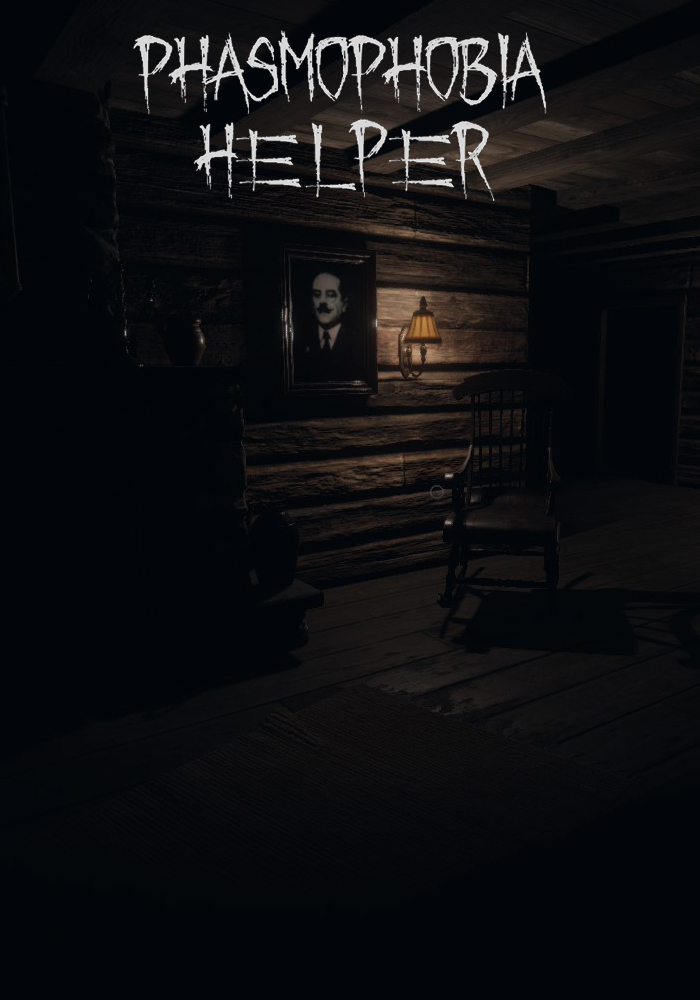
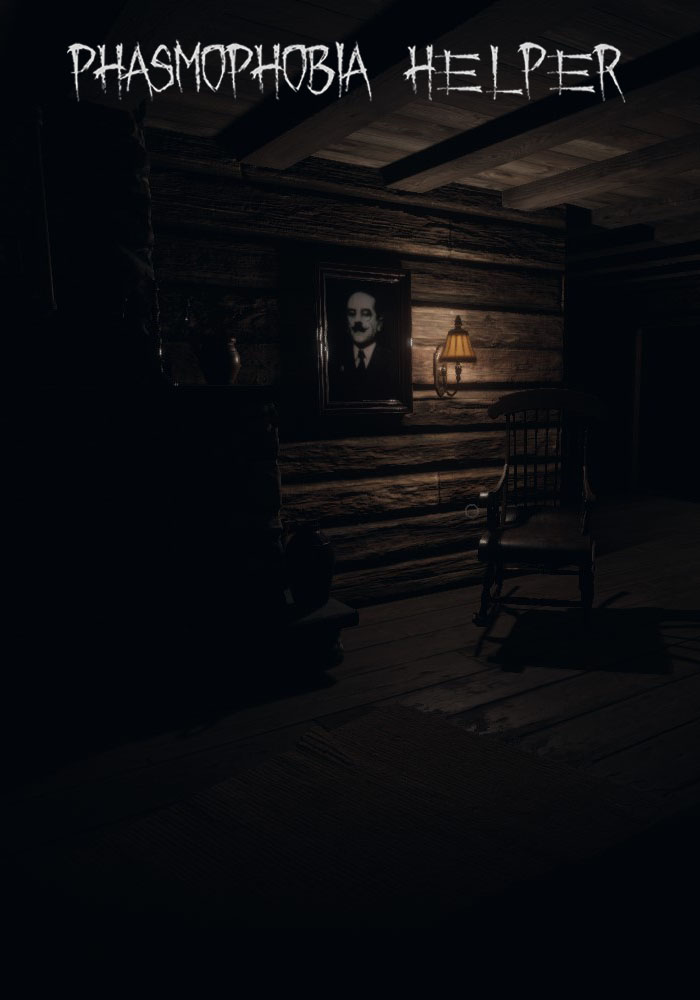
Finish visual updates

diff --git a/css/styles.css b/css/styles.css
@@ -26,6 +26,7 @@ legend {
 fieldset {
     display: inline-block;
     width: 200px;
+    margin-bottom: 5px;
     /*background-color: #292929;*/
     /*box_sizing: border-box;*/
     /*align-items: center;*/
@@ -42,7 +43,7 @@ div#main {
     display: inline-block;
     background-image: url(../media/background.jpg);
     background-repeat: no-repeat;
-    background-size: contain;
+    background-size: 100%;
     background-origin: border-box;
     background-position: center top;
 }
@@ -50,7 +51,7 @@ div#evidence {
     display: inline-block;
     margin: 0 auto;
     border: inset;
-    padding-top: 200px;
+    padding-top: 120px;
 }
 div#ghost_results {
     border: inset;
@@ -78,7 +79,6 @@ div.ghost_card {
     padding: 10px 5px 0px 5px;
     width: 200px;
     background-color: rgba(64, 64, 64, 0.5);
-    opacity: 0.5;
     margin: 5px;
 }
 div.list_ghost_evidence {
@@ -133,5 +133,29 @@ li.crossed {
   .ghost_card-legend {
       font-size: 24px;
       font-weight: bold;
-      text-shadow: -1px 0 black, 0 1px black, 1px 0 black, 0 -1px black;
+      text-shadow: -3px 0 black, 0 3px black, 3px 0 black, 0 -3px black;
+  }
+
+  footer {
+    padding: 3px;
+    margin-top: 10px;
+    background-color: #454545;
+    width: 700px;
+    text-align: center;
+
+  }
+
+  footer a {
+    color: white;
+    text-decoration: none
+  }
+  footer img {
+    vertical-align: text-bottom;
+  }
+  footer hr {
+    padding: 0px;
+    margin: 0px;
+    border-color: black;
+    border-width: 2px;
+    border-style: ridge none none none;
   }

diff --git a/index.html b/index.html
@@ -27,10 +27,19 @@
 <body>
 
 
-    <p>Notice: I will make the UI prettier but it's functional right now.</p>
     <div id="main" class="border">
 
     </div>
     <div id="output"></div>
 </body>
+<footer>
+    <div>
+        <hr>
+        <a href="https://www.twitch.tv/wolfbro">
+            Built by WolfBro
+            <img src="media/twitch-icon.png" width="20px" />
+        </a>
+        <hr>
+    </div
+</footer>
 </html>
